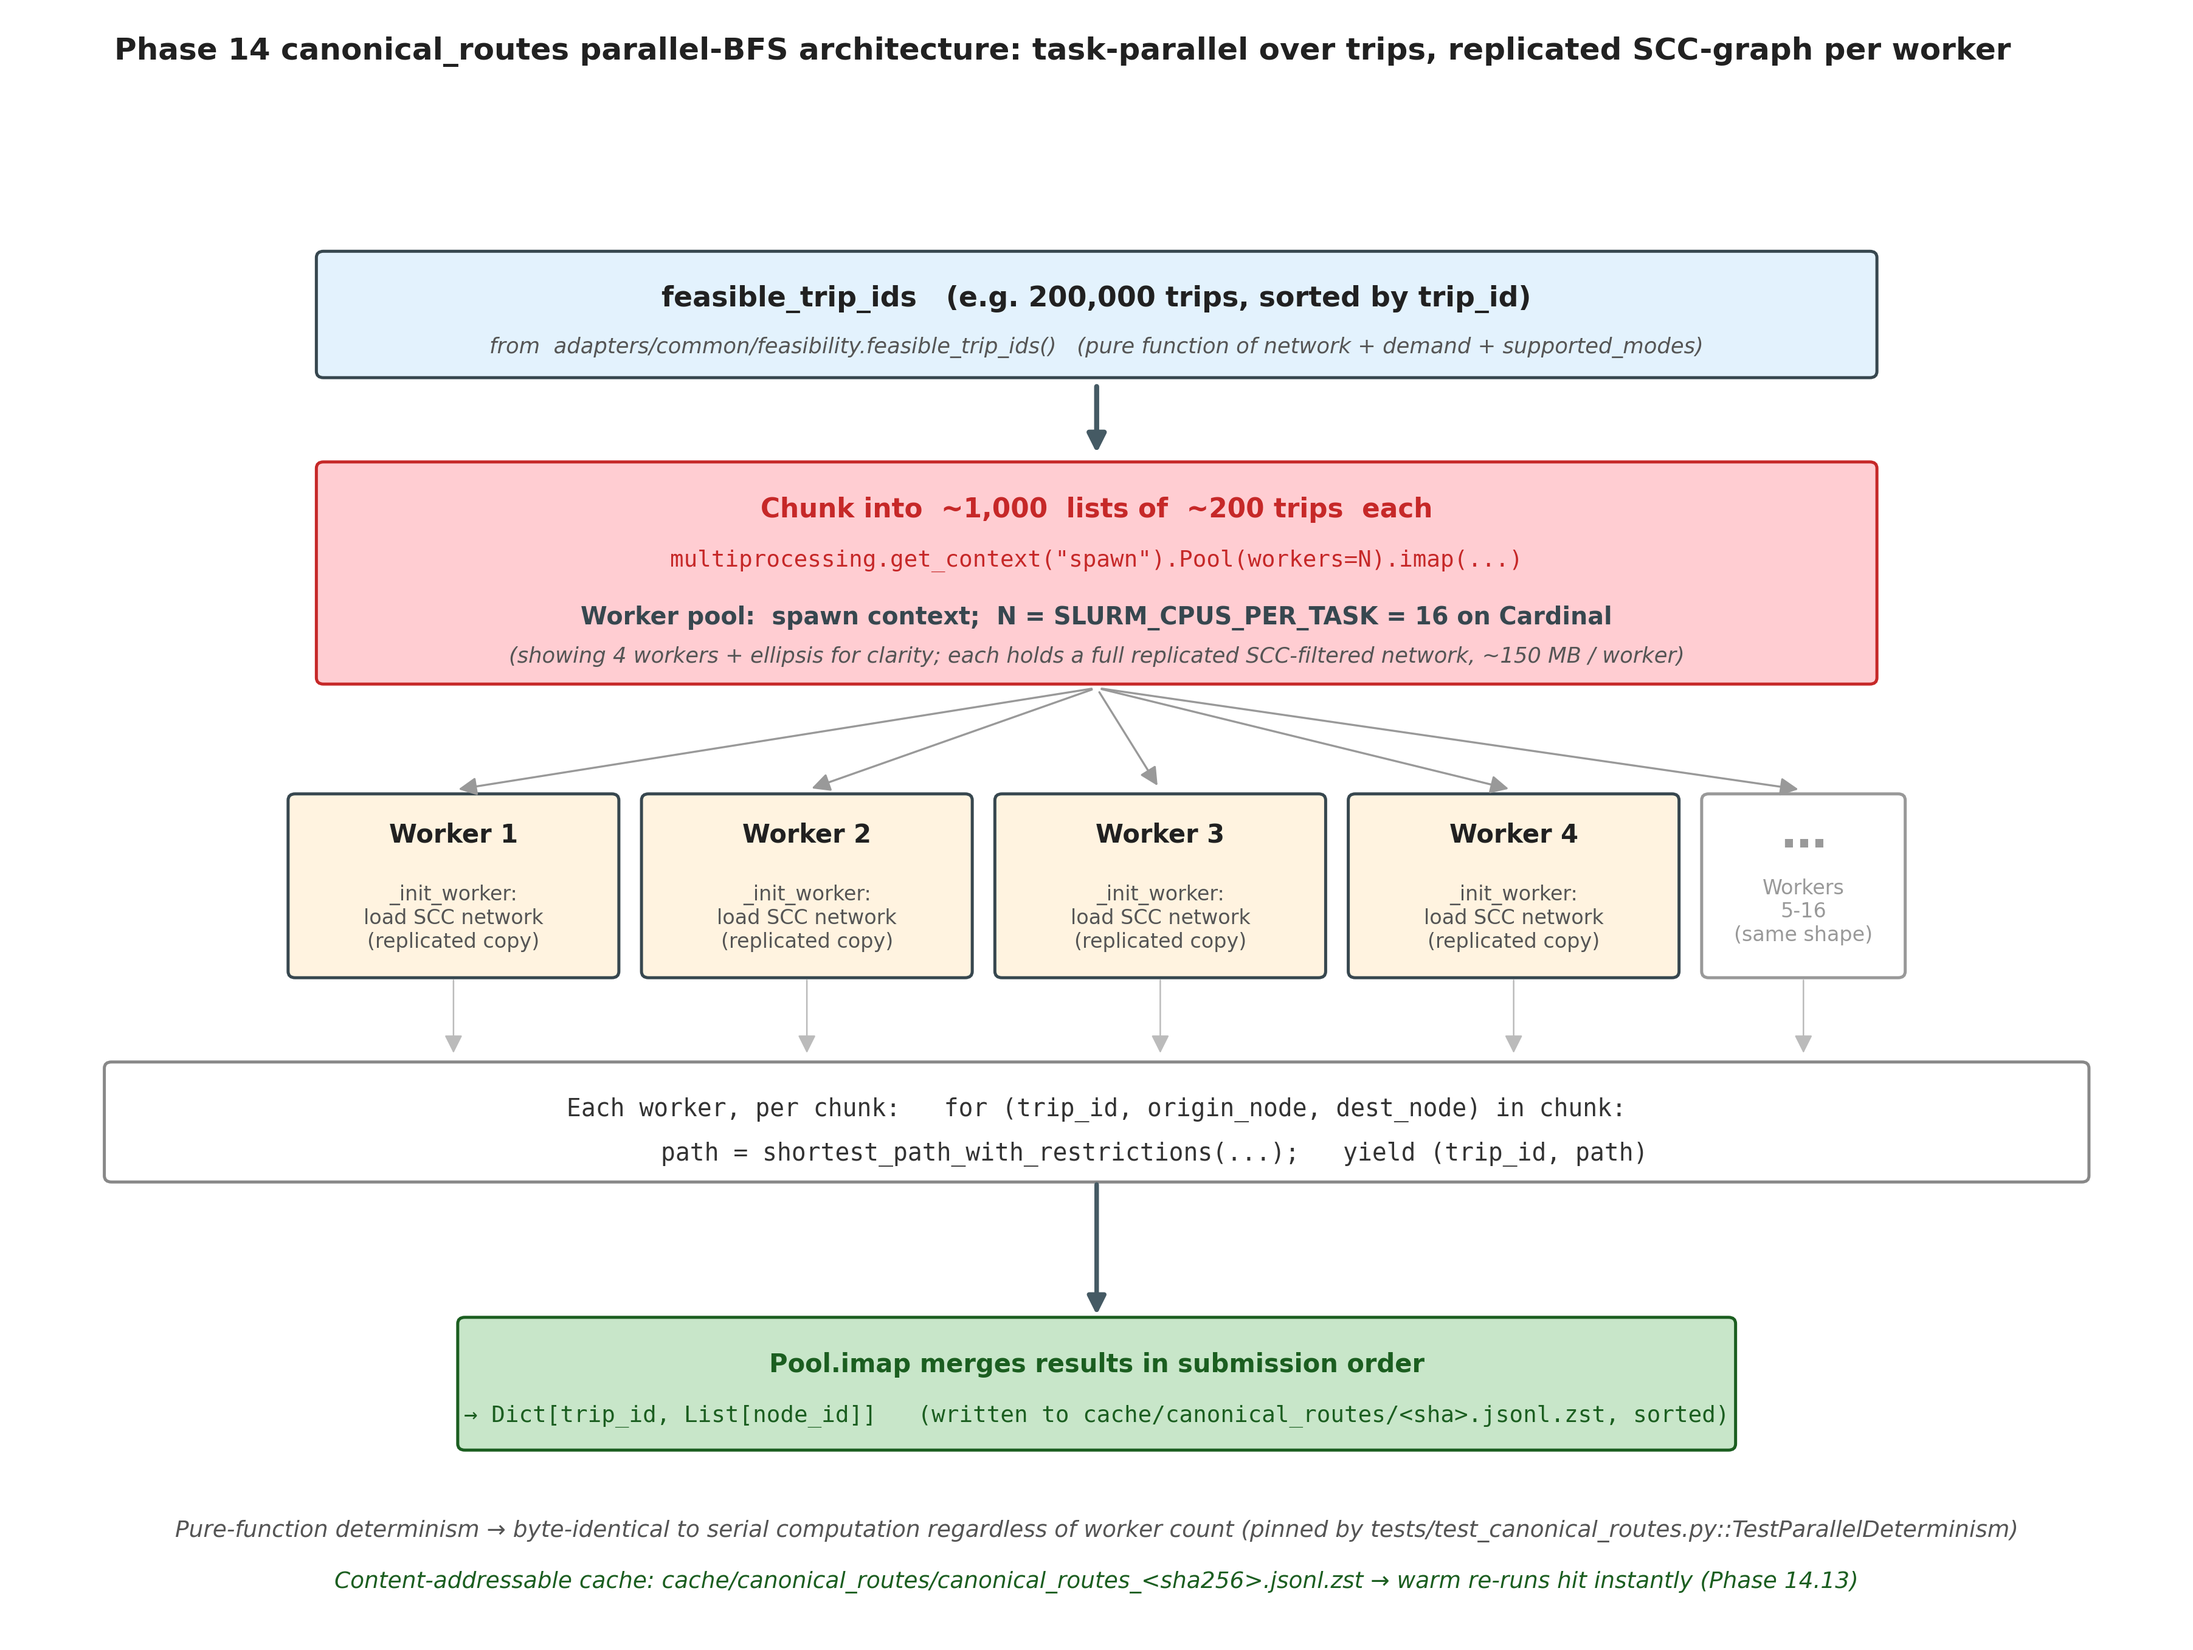
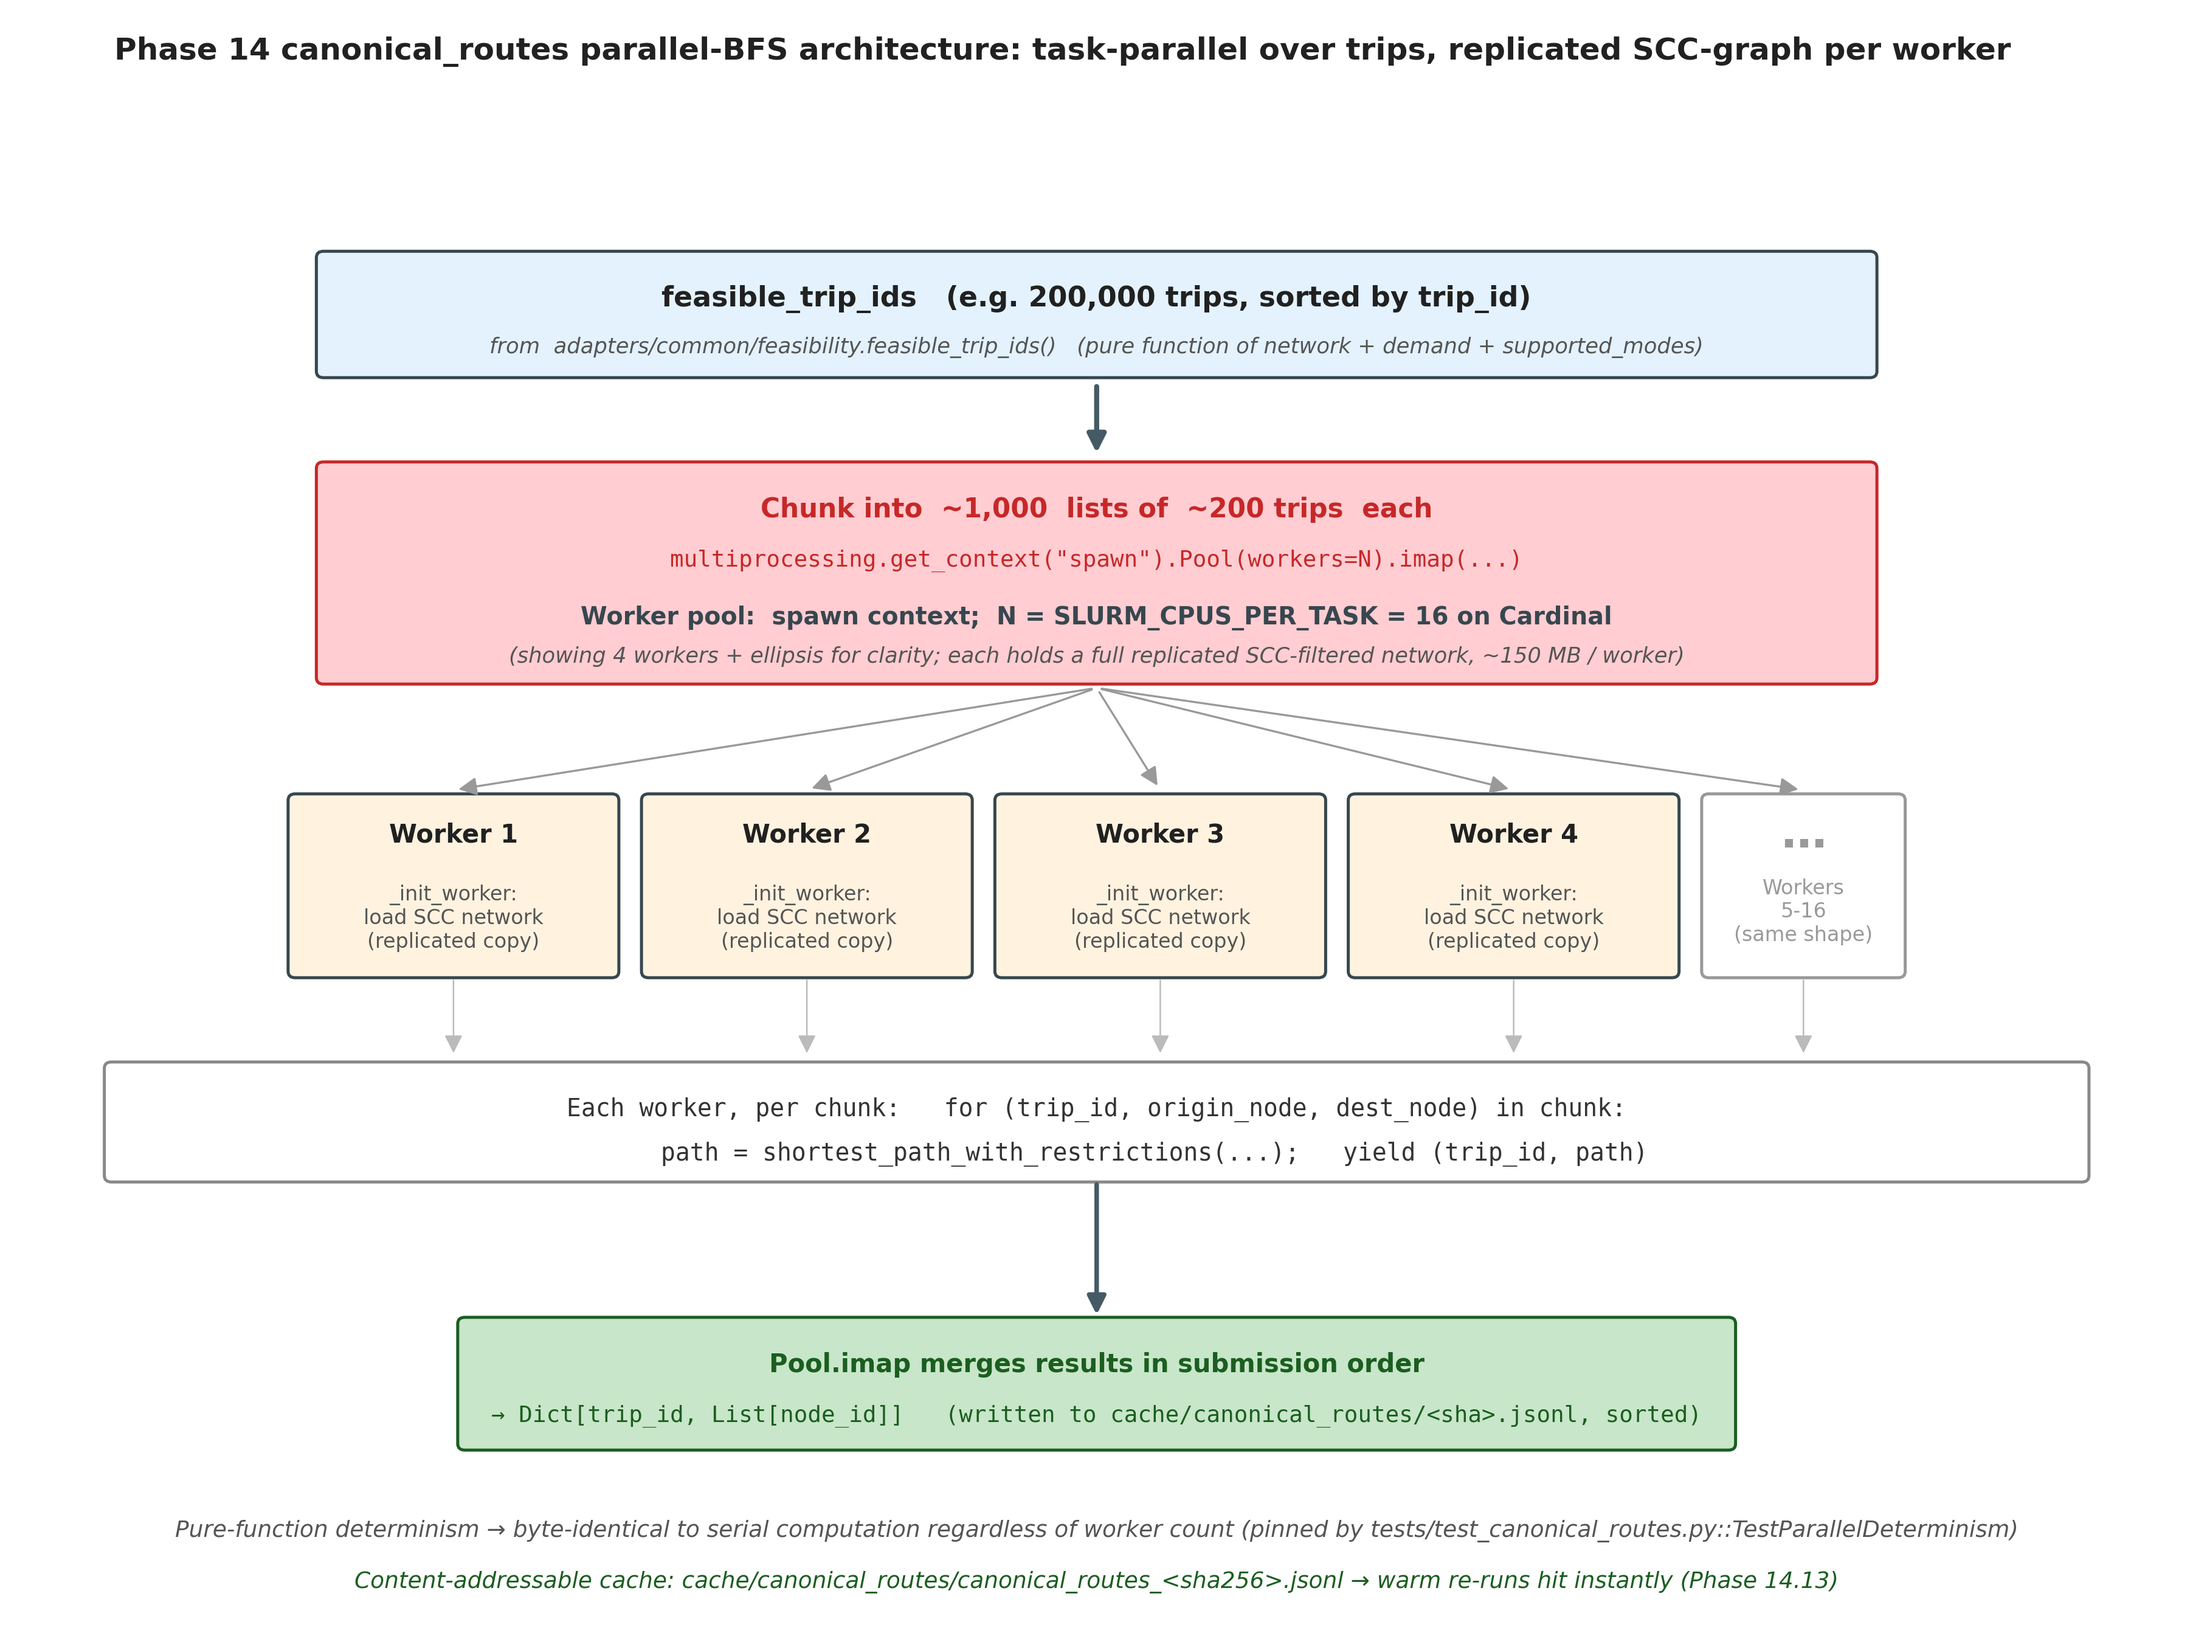
tools: fix F11 figure cache filename (.jsonl.zst -> .jsonl) + regenerate fig_3_8b + drop dead code (ET import, LAYER_GAP, f-strings) + clean.sh cache wording

diff --git a/tools/generate_architecture_figures.py b/tools/generate_architecture_figures.py
@@ -201,7 +201,6 @@ def fig_3_1_three_layer_architecture(output_dir):
 
     # Layer geometry — non-overlapping, with explicit inter-layer gap for arrows
     LAYER_H = 2.2
-    LAYER_GAP = 0.6
     layer_specs = [
         ("PIPELINE LAYER", "(canonical-bundle generation)", 6.5, C_PIPELINE,
          ["pipeline/network/\n(OSM → GMNS → SCC)",
@@ -1054,7 +1053,7 @@ def fig_3_8b_parallel_bfs_workers(output_dir):
             color="#1b5e20")
     ax.text(7.5, 1.55,
             "→ Dict[trip_id, List[node_id]]   "
-            "(written to cache/canonical_routes/<sha>.jsonl.zst, sorted)",
+            "(written to cache/canonical_routes/<sha>.jsonl, sorted)",
             ha="center", va="center", fontsize=9, color="#1b5e20",
             family="monospace")
 
@@ -1064,7 +1063,7 @@ def fig_3_8b_parallel_bfs_workers(output_dir):
             "(pinned by tests/test_canonical_routes.py::TestParallelDeterminism)",
             ha="center", va="center", fontsize=9, style="italic", color="#555")
     ax.text(7.5, 0.25,
-            "Content-addressable cache: cache/canonical_routes/canonical_routes_<sha256>.jsonl.zst → warm re-runs hit instantly (Phase 14.13)",
+            "Content-addressable cache: cache/canonical_routes/canonical_routes_<sha256>.jsonl → warm re-runs hit instantly (Phase 14.13)",
             ha="center", va="center", fontsize=9, style="italic", color="#1b5e20")
 
     return save(fig, "fig_3_8b_parallel_bfs_workers", output_dir)

diff --git a/tools/download_osm.py b/tools/download_osm.py
@@ -89,8 +89,8 @@ def resolve_one(key: str, entry: dict, force: bool) -> bool:
         print(f"  [{key}] FAILED — downloaded file hash does not match manifest")
         print(f"    expected: {expected_sha}")
         print(f"    actual:   {actual}")
-        print(f"    (Geofabrik's '-latest' rotates daily. If the upstream file has")
-        print(f"     changed, regenerate the manifest with the new hash and commit it.)")
+        print("    (Geofabrik's '-latest' rotates daily. If the upstream file has")
+        print("     changed, regenerate the manifest with the new hash and commit it.)")
         return False
 
     print(f"  [{key}] OK ({human(dest.stat().st_size)})")

diff --git a/tools/generate_scorecard.py b/tools/generate_scorecard.py
@@ -45,7 +45,6 @@ import platform
 import statistics
 import subprocess
 import sys
-import xml.etree.ElementTree as ET
 from collections import defaultdict
 from importlib import metadata
 from pathlib import Path
